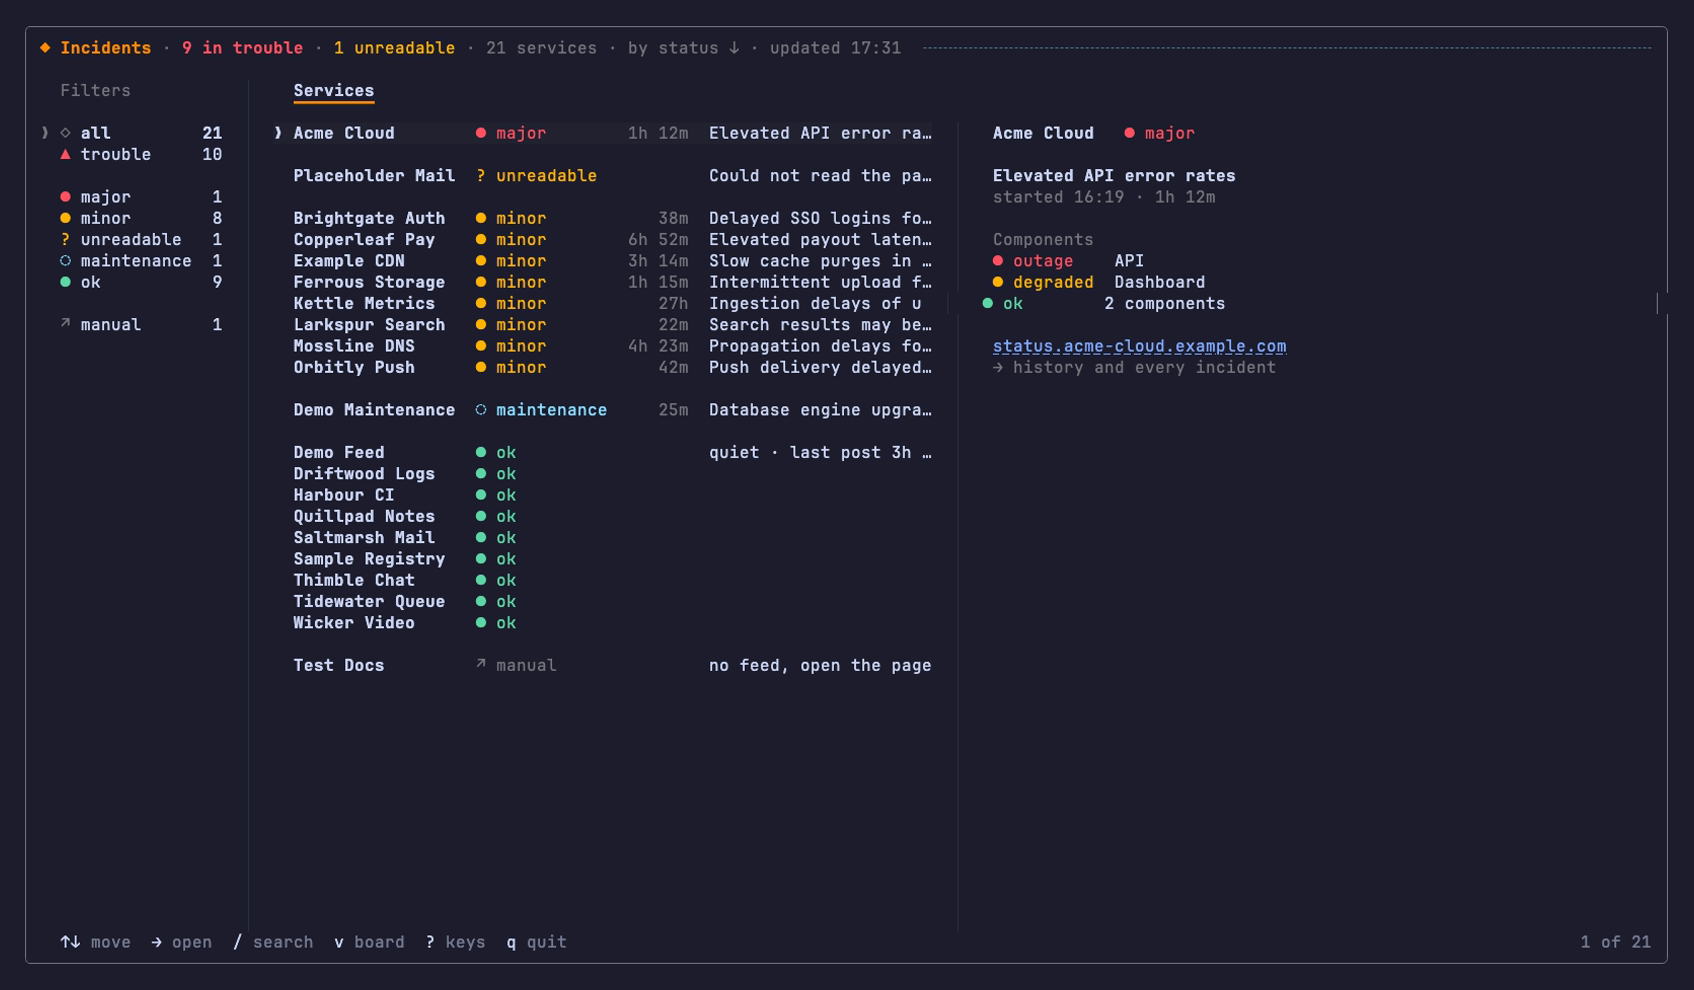
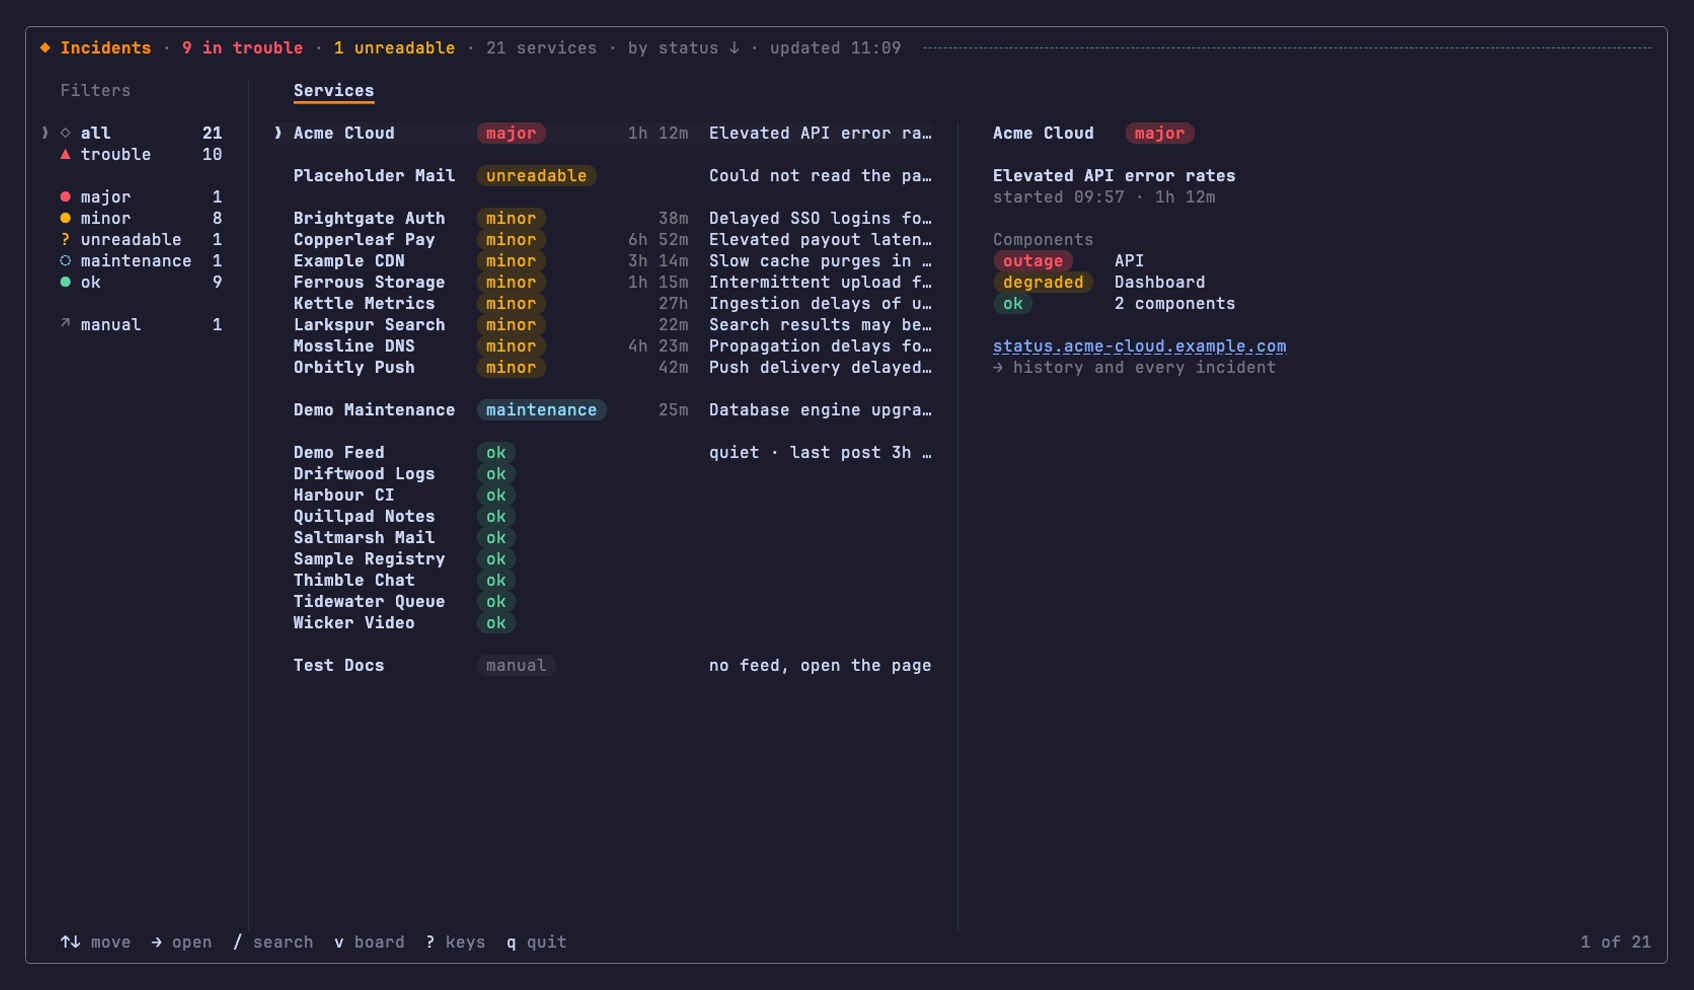
✨ feat(ui): render status words as pills
- Add StatusPill, pillWord, and pillText in overview-parts.tsx so every status word draws as one pill shape
- Render status cells in detail.tsx through StatusPill, with Span and Cell carrying an optional pill label
- Drop the glyph field from componentWord in overview-list.tsx and measure columns with pillText, so widths match what is drawn
- Update layout, vocabulary, and list tests to expect pill output instead of glyph-prefixed text

diff --git a/src/ui/detail.tsx b/src/ui/detail.tsx
@@ -1,6 +1,6 @@
 import { useState, type ReactNode } from "react"
 import { Box, Text, useInput } from "ink"
-import { colors, type Span, type StyledLine } from "@kud/ink-ui"
+import { colors, type Span as InkSpan } from "@kud/ink-ui"
 import { ageOf, type ServiceRecord } from "../core/index.js"
 import {
   DISCLAIMER,
@@ -12,7 +12,13 @@ import {
 } from "../labels.js"
 import { hyperlink, visibleLength } from "../render.js"
 import { PaneTitle, Rule } from "./filter-column.js"
-import { INK, Pending, pendingWidth } from "./overview-parts.js"
+import {
+  INK,
+  Pending,
+  pendingWidth,
+  pillText,
+  StatusPill,
+} from "./overview-parts.js"
 
 const TONE: Record<Tone, string> = {
   error: colors.error,
@@ -23,6 +29,17 @@ const TONE: Record<Tone, string> = {
 }
 const GAP = 2
 const MAX = 110
+// A span may be a status pill: its text is what the pill draws, caps
+// included, so widths and plain-text reads hold, and the line renders the
+// pill itself in its place.
+export type Span = InkSpan & { pill?: Label }
+export type StyledLine = {
+  text: string
+  color?: string
+  bold?: boolean
+  dim?: boolean
+  spans?: Span[]
+}
 const BLANK: StyledLine = { text: "" }
 // A pane's content starts under the first letter of its title, one cell in,
 // where the page header's icon sits; rows under a heading sit two further in.
@@ -38,7 +55,7 @@ const AFTER_RULE = 2
 const SPLIT_MIN = 150
 const NOW_SHARE = 0.45
 
-type Cell = { text: string; color?: string; bold?: boolean }
+type Cell = { text: string; color?: string; bold?: boolean; pill?: Label }
 
 const pad = (text: string, width: number): string => {
   const chars = [...text]
@@ -49,10 +66,7 @@ const padStart = (text: string, width: number): string =>
   " ".repeat(Math.max(0, width - visibleLength(text))) + text
 const widest = (cells: string[]): number =>
   Math.max(0, ...cells.map(visibleLength))
-const tone = (label: Label): Cell => ({
-  text: withGlyph(label).text,
-  color: TONE[label.tone],
-})
+const tone = (label: Label): Cell => ({ text: pillText(label), pill: label })
 // When an open incident started, and for how long, in the one vocabulary
 // the app uses for a duration: "started 13:24 · 1h 12m".
 const started = (raw: string): string => {
@@ -96,7 +110,14 @@ const grid = (
     const spans: Span[] = [
       { text: " ".repeat(start) },
       ...(leadWidth
-        ? [{ ...lead, text: pad(lead.text, leadWidth + GAP) }]
+        ? [
+            lead,
+            {
+              text: " ".repeat(
+                Math.max(0, leadWidth + GAP - visibleLength(lead.text)),
+              ),
+            },
+          ]
         : []),
       { ...body, text: pad(body.text, bodyWidth) },
     ]
@@ -185,7 +206,7 @@ const headline = (record: ServiceRecord): StyledLine[] => {
       text: "",
       spans: [
         { text: " ".repeat(EDGE) },
-        { text: status.text, color: TONE[status.tone] },
+        tone(status),
         { text: "  " },
         { text: record.description, bold: true, color: INK },
       ],
@@ -318,8 +339,8 @@ const nowLines = (
 const sizes = (record: ServiceRecord) => {
   const { broken } = split(record)
   const leadWidth = widest([
-    ...broken.map((c) => withGlyph(wordLabel(c.status)).text),
-    ...record.active.map((i) => withGlyph(wordLabel(i.impact)).text),
+    ...broken.map((c) => pillText(wordLabel(c.status))),
+    ...record.active.map((i) => pillText(wordLabel(i.impact))),
   ])
   const tailWidth = widest(record.active.map((i) => started(i.date)))
   return { leadWidth, tailWidth }
@@ -456,11 +477,15 @@ export const sectionsLines = (
 const Line = ({ line }: { line: StyledLine }) =>
   line.spans ? (
     <Text wrap="truncate-end">
-      {line.spans.map((s, j) => (
-        <Text key={j} color={s.color} bold={s.bold} dimColor={s.dim}>
-          {s.text}
-        </Text>
-      ))}
+      {line.spans.map((s, j) =>
+        s.pill ? (
+          <StatusPill key={j} label={s.pill} />
+        ) : (
+          <Text key={j} color={s.color} bold={s.bold} dimColor={s.dim}>
+            {s.text}
+          </Text>
+        ),
+      )}
       {line.spans.length ? "" : " "}
     </Text>
   ) : (

diff --git a/src/ui/overview-list.tsx b/src/ui/overview-list.tsx
@@ -3,8 +3,8 @@ import { Box, Text } from "ink"
 import { colors } from "@kud/ink-ui"
 import { isClear } from "../core/index.js"
 import { DISCLAIMER, statusLabel } from "../labels.js"
-import { hyperlink } from "../render.js"
-import type { Tone } from "../labels.js"
+import { hyperlink, visibleLength } from "../render.js"
+import type { Label } from "../labels.js"
 import {
   ageText,
   headline,
@@ -26,7 +26,8 @@ import {
   Marker,
   Pending,
   StatusCell,
-  TONE,
+  StatusPill,
+  pillText,
   pad,
   pendingWidth,
   useMeasuredHeight,
@@ -49,16 +50,14 @@ const STATUS_W = widest(
 // The widest age the clock gives: "9h 59m".
 const AGE_W = 6
 
-const componentWord = (
-  status: string,
-): { glyph: string; text: string; tone: Tone } =>
+const componentWord = (status: string): Label =>
   status === "operational"
-    ? { glyph: "●", text: "ok", tone: "success" }
+    ? { text: "ok", tone: "success" }
     : status === "under_maintenance"
-      ? { glyph: "◌", text: "maintenance", tone: "info" }
+      ? { text: "maintenance", tone: "info" }
       : status === "major_outage"
-        ? { glyph: "●", text: "outage", tone: "error" }
-        : { glyph: "●", text: "degraded", tone: "warning" }
+        ? { text: "outage", tone: "error" }
+        : { text: "degraded", tone: "warning" }
 
 // Worst first, then by name, as the detail page orders them; maintenance is
 // planned work and sits after the breakage.
@@ -117,16 +116,15 @@ const Preview = ({ row, width }: { row?: Row; width: number }) => {
   const shown = broken.slice(0, COMPONENTS_SHOWN)
   // The status leads each row, so a long name is what gets cut, never the word.
   const wordW = widest([
-    ...shown.map((c) => componentWord(c.status).text),
-    ...(healthy ? ["ok"] : []),
+    ...shown.map((c) => pillText(componentWord(c.status))),
+    ...(healthy ? [pillText(componentWord("operational"))] : []),
   ])
   const componentRow = (key: string, status: string, text: string) => {
     const word = componentWord(status)
     return (
       <Text key={key} wrap="truncate-end">
-        <Text color={TONE[word.tone]}>
-          {word.glyph} {pad(word.text, wordW + GAP)}
-        </Text>
+        <StatusPill label={word} />
+        <Text>{" ".repeat(wordW + GAP - visibleLength(pillText(word)))}</Text>
         <Text color={INK}>{text}</Text>
       </Text>
     )
@@ -185,7 +183,7 @@ const Preview = ({ row, width }: { row?: Row; width: number }) => {
     if (broken.length > shown.length)
       lines.push(
         <Text key="more" color={colors.muted}>
-          {" ".repeat(2 + wordW + GAP)}+{broken.length - shown.length} more
+          {" ".repeat(wordW + GAP)}+{broken.length - shown.length} more
         </Text>,
       )
     if (healthy)

diff --git a/src/ui/overview-parts.tsx b/src/ui/overview-parts.tsx
@@ -7,7 +7,7 @@ import {
 } from "react"
 import { Box, Text, measureElement, type DOMElement } from "ink"
 import { colors, Pill } from "@kud/ink-ui"
-import type { Tone } from "../labels.js"
+import type { Label, Tone } from "../labels.js"
 import type { Sort } from "../sort.js"
 import { visibleLength } from "../render.js"
 import {
@@ -251,30 +251,43 @@ export type OverviewProps = {
   motion?: import("./overview-board.js").Motion
 }
 
-// A status word, always a pill, so every status reads as one object; major
-// and critical take the strong pill, the loudest thing on the board. The
-// word carries the meaning in every form, and under NO_COLOR the pill falls
-// back to brackets.
+// The word a pill holds: the label without its glyph, which the pill's own
+// shape replaces.
+export const pillWord = (label: Label): string =>
+  label.text.replace(/^[●◌?↗] /, "")
+
+// What a status pill reads as in plain text, caps included, so a row that
+// lays pills out in columns prices them at the width they draw.
+export const pillText = (label: Label): string => `${pillWord(label)}`
+
+// A status word, always a pill, so every status reads as one object, on the
+// board, the list, the preview and the detail page alike. The error tone
+// (critical, major, an outage) takes the strong pill, the loudest thing on
+// screen. The word carries the meaning in every form, and under NO_COLOR the
+// pill falls back to brackets. A faded pill keeps its shape on the neutral
+// track, so it recedes without turning into plain text.
+export const StatusPill = ({
+  label,
+  faded = false,
+}: {
+  label: Label
+  faded?: boolean
+}) => (
+  <Pill
+    variant={label.tone}
+    tone="tonal"
+    strong={!faded && label.tone === "error"}
+    color={faded ? colors.track : undefined}
+  >
+    {pillWord(label)}
+  </Pill>
+)
+
+// A service's status on the overview.
 export const StatusTag = ({
   row,
   faded = false,
 }: {
   row: Row
   faded?: boolean
-}) => {
-  const label = labelOf(row)
-  const indicator = row.record?.indicator ?? ""
-  // The pill is as wide as glyph and word, so columns hold. A faded row
-  // keeps its pill on the neutral track, so it recedes without turning into
-  // plain text.
-  return (
-    <Pill
-      variant={label.tone}
-      tone="tonal"
-      strong={!faded && (indicator === "critical" || indicator === "major")}
-      color={faded ? colors.track : undefined}
-    >
-      {label.text.split(" ").slice(1).join(" ")}
-    </Pill>
-  )
-}
+}) => <StatusPill label={labelOf(row)} faded={faded} />

diff --git a/test/detail-layout.test.tsx b/test/detail-layout.test.tsx
@@ -54,7 +54,12 @@ describe("detail page layout", () => {
       assert.equal(titles.slice(rule + 1, rule + 3), "  ")
       // Every left row starts on the header's icon column.
       const icon = lines.find((l) => l.includes("◆"))!.indexOf("◆")
-      for (const text of ["Now", "● major", "status.", "Open incidents"]) {
+      for (const text of [
+        "Now",
+        "\uE0B6major\uE0B4",
+        "status.",
+        "Open incidents",
+      ]) {
         const row = lines.find((l) => l.includes(text))!
         assert.equal(row.indexOf(text), icon, text)
       }
@@ -186,11 +191,11 @@ describe("components at scale", () => {
     )
     const lines = out.split("\n")
     const rows = lines.filter((l) =>
-      /^ {3}● (outage|partial|degraded) /.test(l.split("│")[0]),
+      /^ {3}\uE0B6(outage|partial|degraded)\uE0B4 /.test(l.split("│")[0]),
     )
     // Eight breakage rows, the outage first, then the rest counted.
     assert.equal(rows.length, 8, out)
-    assert.match(rows[0], /outage\s+Core API/)
+    assert.match(rows[0], /outage\uE0B4\s+Core API/)
     assert.match(out, /\+ 5 more/)
     assert.match(out, /In maintenance/)
     assert.match(out, /\+ 17 more/)
@@ -222,7 +227,7 @@ describe("components at scale", () => {
     assert.ok(Number(/(\d+) more below/.exec(note)![1]) > 17, note)
     assert.equal(
       note.search(/\d/),
-      lines.find((l) => /● ok/.test(l))!.indexOf("●"),
+      lines.find((l) => /\uE0B6ok\uE0B4/.test(l))!.indexOf("\uE0B6"),
     )
   })
 })

diff --git a/test/detail.test.tsx b/test/detail.test.tsx
@@ -157,12 +157,12 @@ describe("detail vocabulary", () => {
     120,
   ).map(text)
 
-  it("gives every status word its glyph", () => {
+  it("gives every status word a pill", () => {
     const out = acme.join("\n")
-    assert.match(out, /● major {2}Partial System Outage/)
-    assert.match(out, / {3}● major {5}Elevated API error rates/)
-    assert.match(out, / {3}● outage {4}API/)
-    assert.match(out, / {3}● degraded {2}Dashboard/)
+    assert.match(out, /\uE0B6major\uE0B4 {2}Partial System Outage/)
+    assert.match(out, / {3}\uE0B6major\uE0B4 {5}Elevated API error rates/)
+    assert.match(out, / {3}\uE0B6outage\uE0B4 {4}API/)
+    assert.match(out, / {3}\uE0B6degraded\uE0B4 {2}Dashboard/)
   })
 
   it("counts the healthy rest under the components, indented", () => {

diff --git a/test/list.test.tsx b/test/list.test.tsx
@@ -357,8 +357,8 @@ describe("list preview", () => {
       await tick(30)
     }
     const shown = await until(frame, /41 components/)
-    assert.match(shown, /● degraded {2}Edge cache/)
-    assert.match(shown, /● ok {8}41 components/)
+    assert.match(shown, /\uE0B6degraded\uE0B4 {2}Edge cache/)
+    assert.match(shown, /\uE0B6ok\uE0B4 {8}41 components/)
     assert.doesNotMatch(shown, /Ashmere/)
     assert.doesNotMatch(shown, /ok\s*…|…\s*│/)
     app.unmount()

diff --git a/test/app.test.tsx b/test/app.test.tsx
@@ -321,7 +321,7 @@ describe("page chrome", () => {
         const expected = detail
           ? columns >= 150
             ? ["Now", "History"]
-            : ["● minor"]
+            : ["\uE0B6minor\uE0B4"]
           : ["Filters", "Services"]
         for (const title of expected)
           assert.match(titles, new RegExp(title), done)
